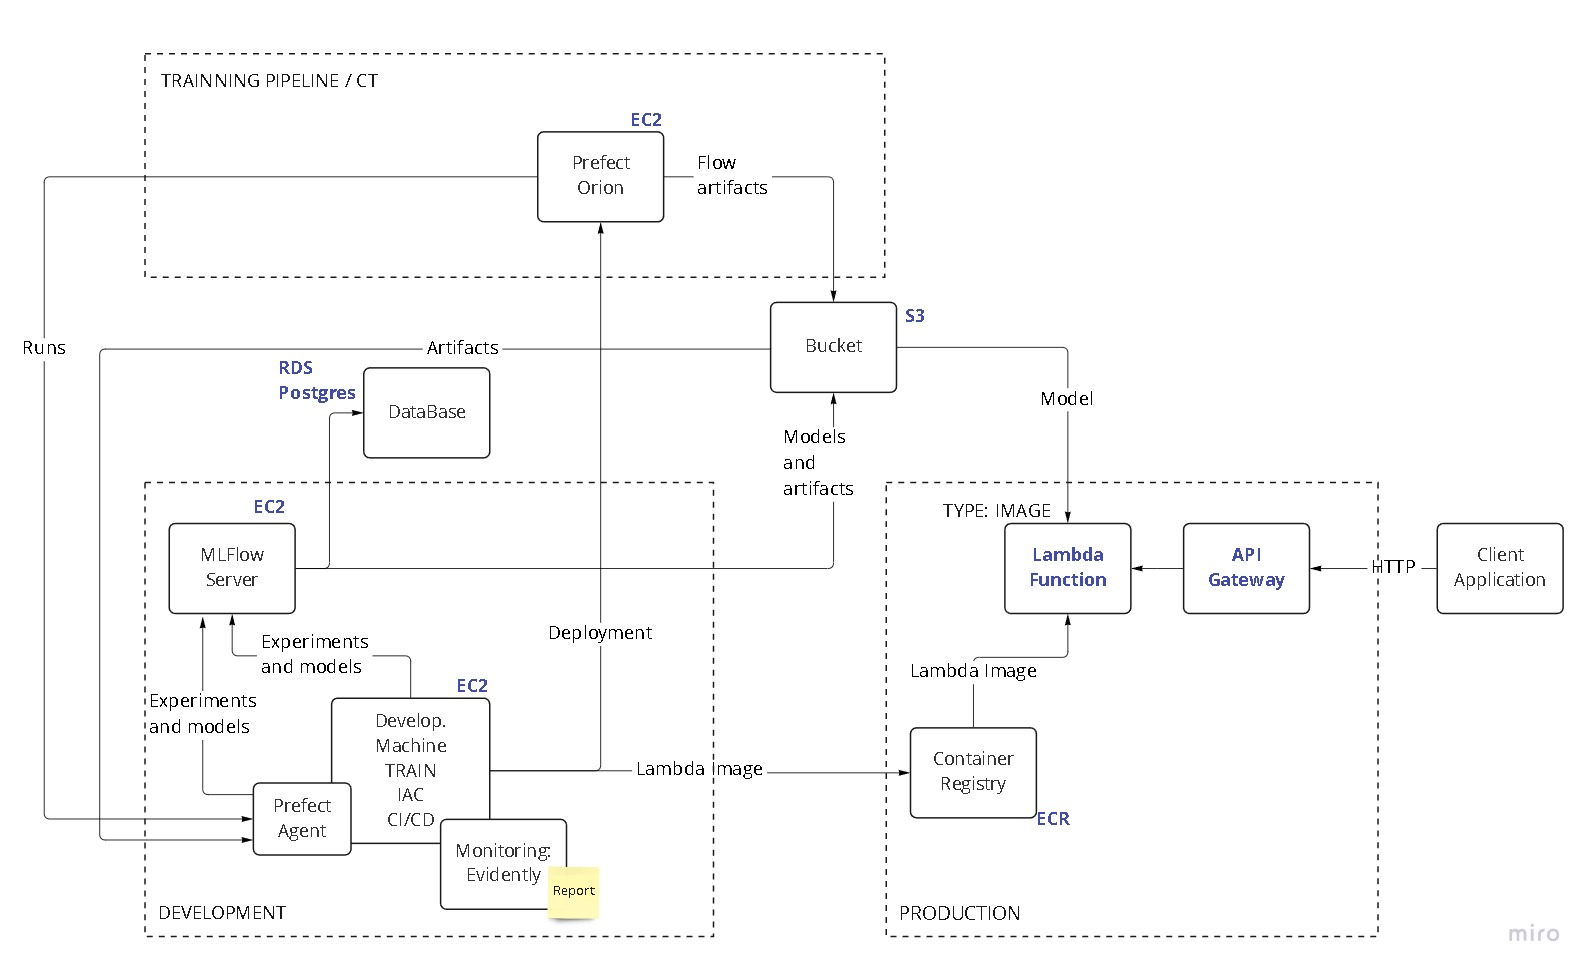
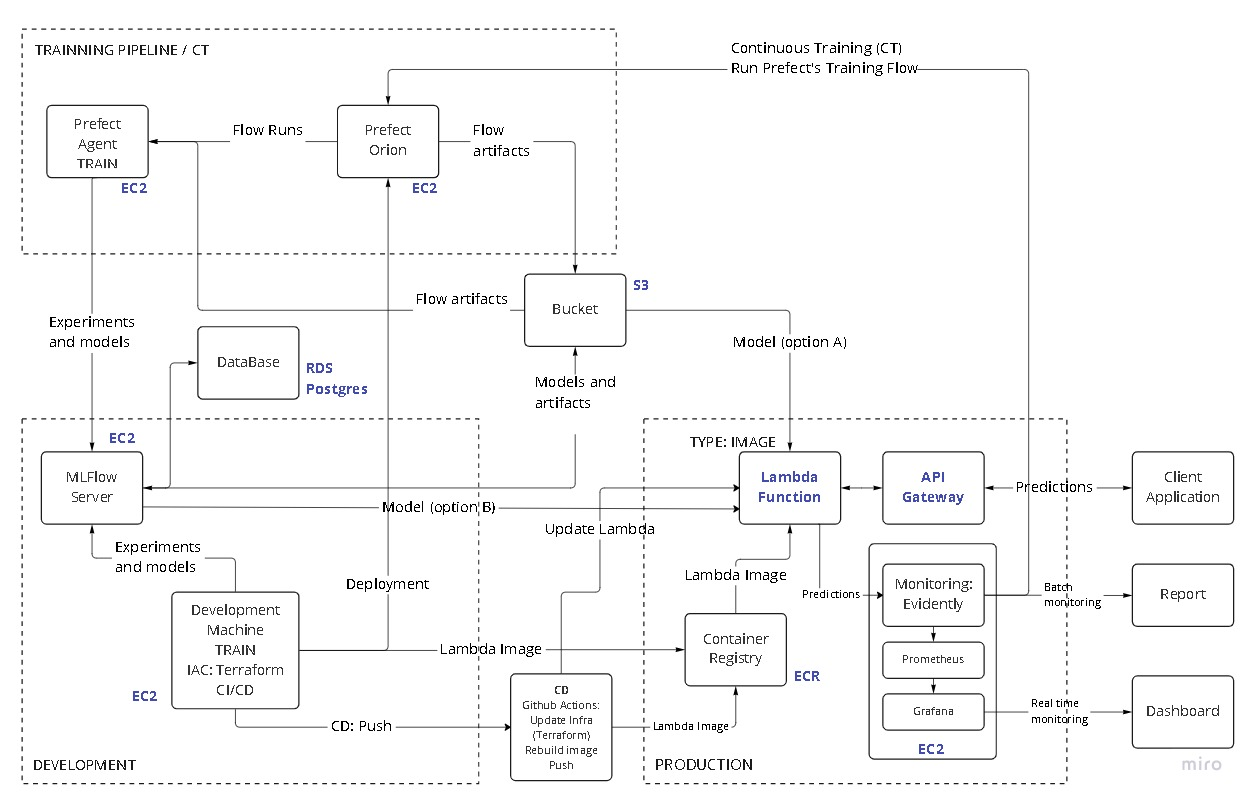
Modified readme and infra schema

diff --git a/README.md b/README.md
@@ -495,6 +495,11 @@ Note: In CD, lambda is always relaunched, even if there is no change in the env 
 
 ## ToDo
 
+- Decide if setup vm with iac or with sh (after cloning repo)
+- Fix readme for the vm, after setupvm, iac and then setup_dev_linux?
+- Fix setup_vm script, after newgrp, a new shell is opened, so pipenv will not run. Check https://unix.stackexchange.com/questions/18897/problem-while-running-newgrp-command-in-script
+- Fix managment of batches (arrays). Keep id of the trip and so on.
+
 - ML
   - Improve the performance of the model (feature engineering). Hyperparameter tunning. Maybe cross data with weather info?
   - ~~Use pipeline also for data preprocessing. Onehotencoder after dv to process numerical variables read as strings (pipckup, dropoff)~~
